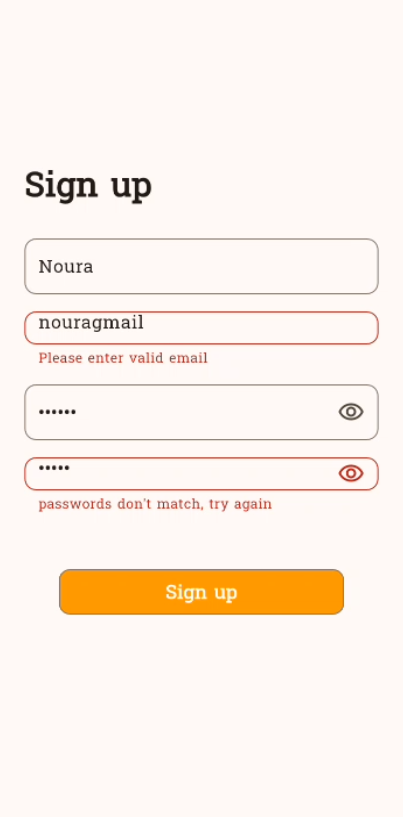
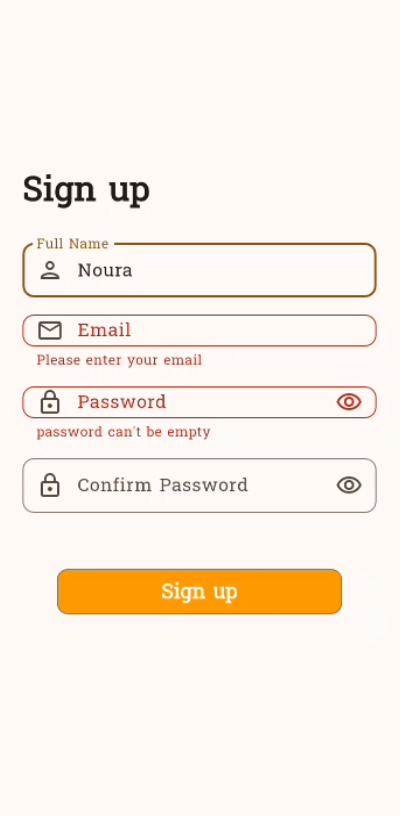
Edit form fields and image

Changed region(s): [[0.03, 0.1838, 0.96, 0.6434], [0.12, 0.674, 0.84, 0.7659], [0.84, 0.7047, 0.87, 0.7353]]

diff --git a/lib/screens/sign_up_page.dart b/lib/screens/sign_up_page.dart
@@ -53,6 +53,8 @@ class _SignUpPageState extends State<SignUpPage> {
                       controller: _nameController,
                       keyboardType: TextInputType.name,
                       hintText: AppStrings.enterYourFullName,
+                      labelText: AppStrings.fullName,
+                      prefixWidget: Icon(Icons.person_outlined),
                       validator: (value) {
                         if (value!.isEmpty) {
                           return AppStrings.pleaseEnterYourName;
@@ -68,6 +70,8 @@ class _SignUpPageState extends State<SignUpPage> {
                       controller: _emailController,
                       keyboardType: TextInputType.emailAddress,
                       hintText: AppStrings.enterYourEmail,
+                      labelText: AppStrings.email,
+                      prefixWidget: Icon(Icons.email_outlined),
                       validator: (value) {
                         if (value!.isEmpty) {
                           return AppStrings.pleaseEnterYourEmail;
@@ -87,6 +91,8 @@ class _SignUpPageState extends State<SignUpPage> {
                       keyboardType: TextInputType.visiblePassword,
                       suffixPressed: changePasswordVisibility,
                       hintText: AppStrings.enterYourPassword,
+                      labelText: AppStrings.password,
+                      prefixWidget: Icon(Icons.lock_outline),
                       validator: (value) {
                         if (value!.isEmpty) {
                           return AppStrings.passwordsCannotBeEmpty;
@@ -106,6 +112,8 @@ class _SignUpPageState extends State<SignUpPage> {
                       keyboardType: TextInputType.visiblePassword,
                       suffixPressed: changeConfirmPasswordVisibility,
                       hintText: AppStrings.enterYourConfirmPassword,
+                      labelText: AppStrings.confirmPassword,
+                      prefixWidget: Icon(Icons.lock_outline),
                       validator: (value) {
                         if (value!.isEmpty) {
                           return null;

diff --git a/lib/widgets/auth_widgets/custom_from_field.dart b/lib/widgets/auth_widgets/custom_from_field.dart
@@ -11,6 +11,8 @@ class CustomFromField extends StatelessWidget {
     this.suffixIcon,
     this.secure = false,
     this.isPassword = false,
+    this.labelText = '',
+    this.prefixWidget,
   });
 
   final String hintText;
@@ -21,7 +23,8 @@ class CustomFromField extends StatelessWidget {
   final bool isPassword;
   final void Function()? suffixPressed;
   final IconData? suffixIcon;
-
+  final String labelText;
+  final Widget? prefixWidget;
   @override
   Widget build(BuildContext context) {
     return Padding(
@@ -34,7 +37,9 @@ class CustomFromField extends StatelessWidget {
           obscureText: secure,
           decoration: InputDecoration(
             hintText: hintText,
+            labelText: labelText,
             hintStyle: TextStyle(fontSize: 14.0),
+            prefixIcon: prefixWidget,
             border: OutlineInputBorder(
               borderRadius: BorderRadius.all(Radius.circular(10.0)),
             ),

diff --git a/lib/utils/app_strings.dart b/lib/utils/app_strings.dart
@@ -35,4 +35,9 @@ class AppStrings {
       'Nikon FX-format D750 - 24.3 MP, SLR Camera 24-120mm Lens, Black';
   static const String text6 =
       'Kingston A400 Internal SSD 2.5 240GB SATA 3 - SA400S37/240G';
+  static const String fullName = 'Full Name';
+  static const String email = 'Email';
+  static const String password = 'Password';
+  static const String confirmPassword = 'Confirm Password';
 }
+

diff --git a/lib/widgets/auth_widgets/sign_up_button.dart b/lib/widgets/auth_widgets/sign_up_button.dart
@@ -30,7 +30,7 @@ class SignUpButton extends StatelessWidget {
         style: TextStyle(
           color: AppColors.white,
           fontWeight: FontWeight.bold,
-          fontSize: 17.0,
+          fontSize: 18.0,
         ),
       ),
     );
